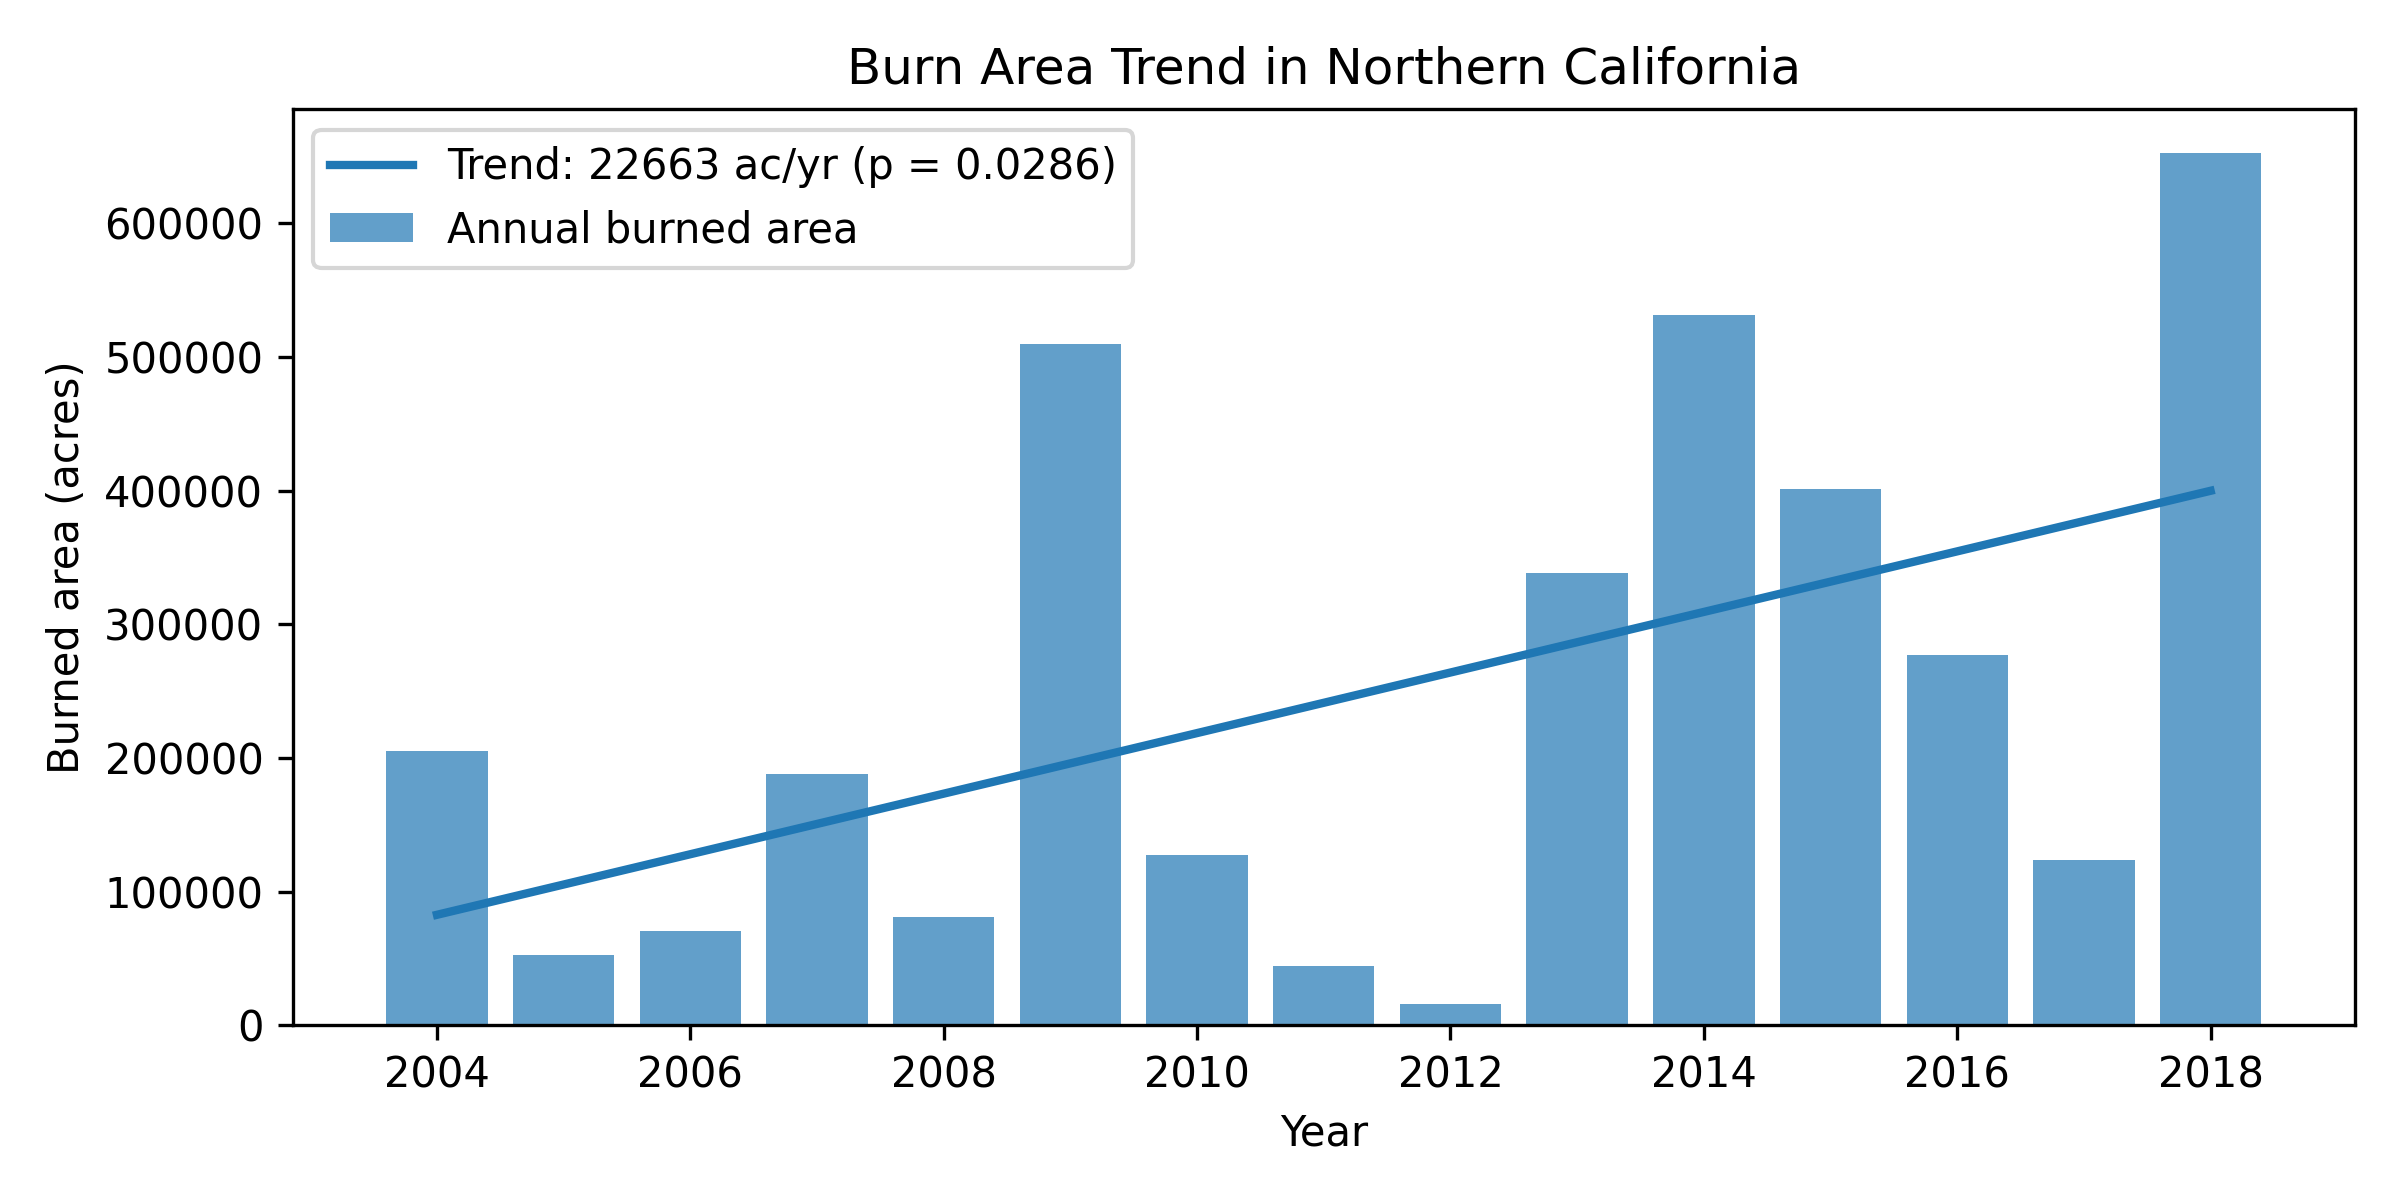
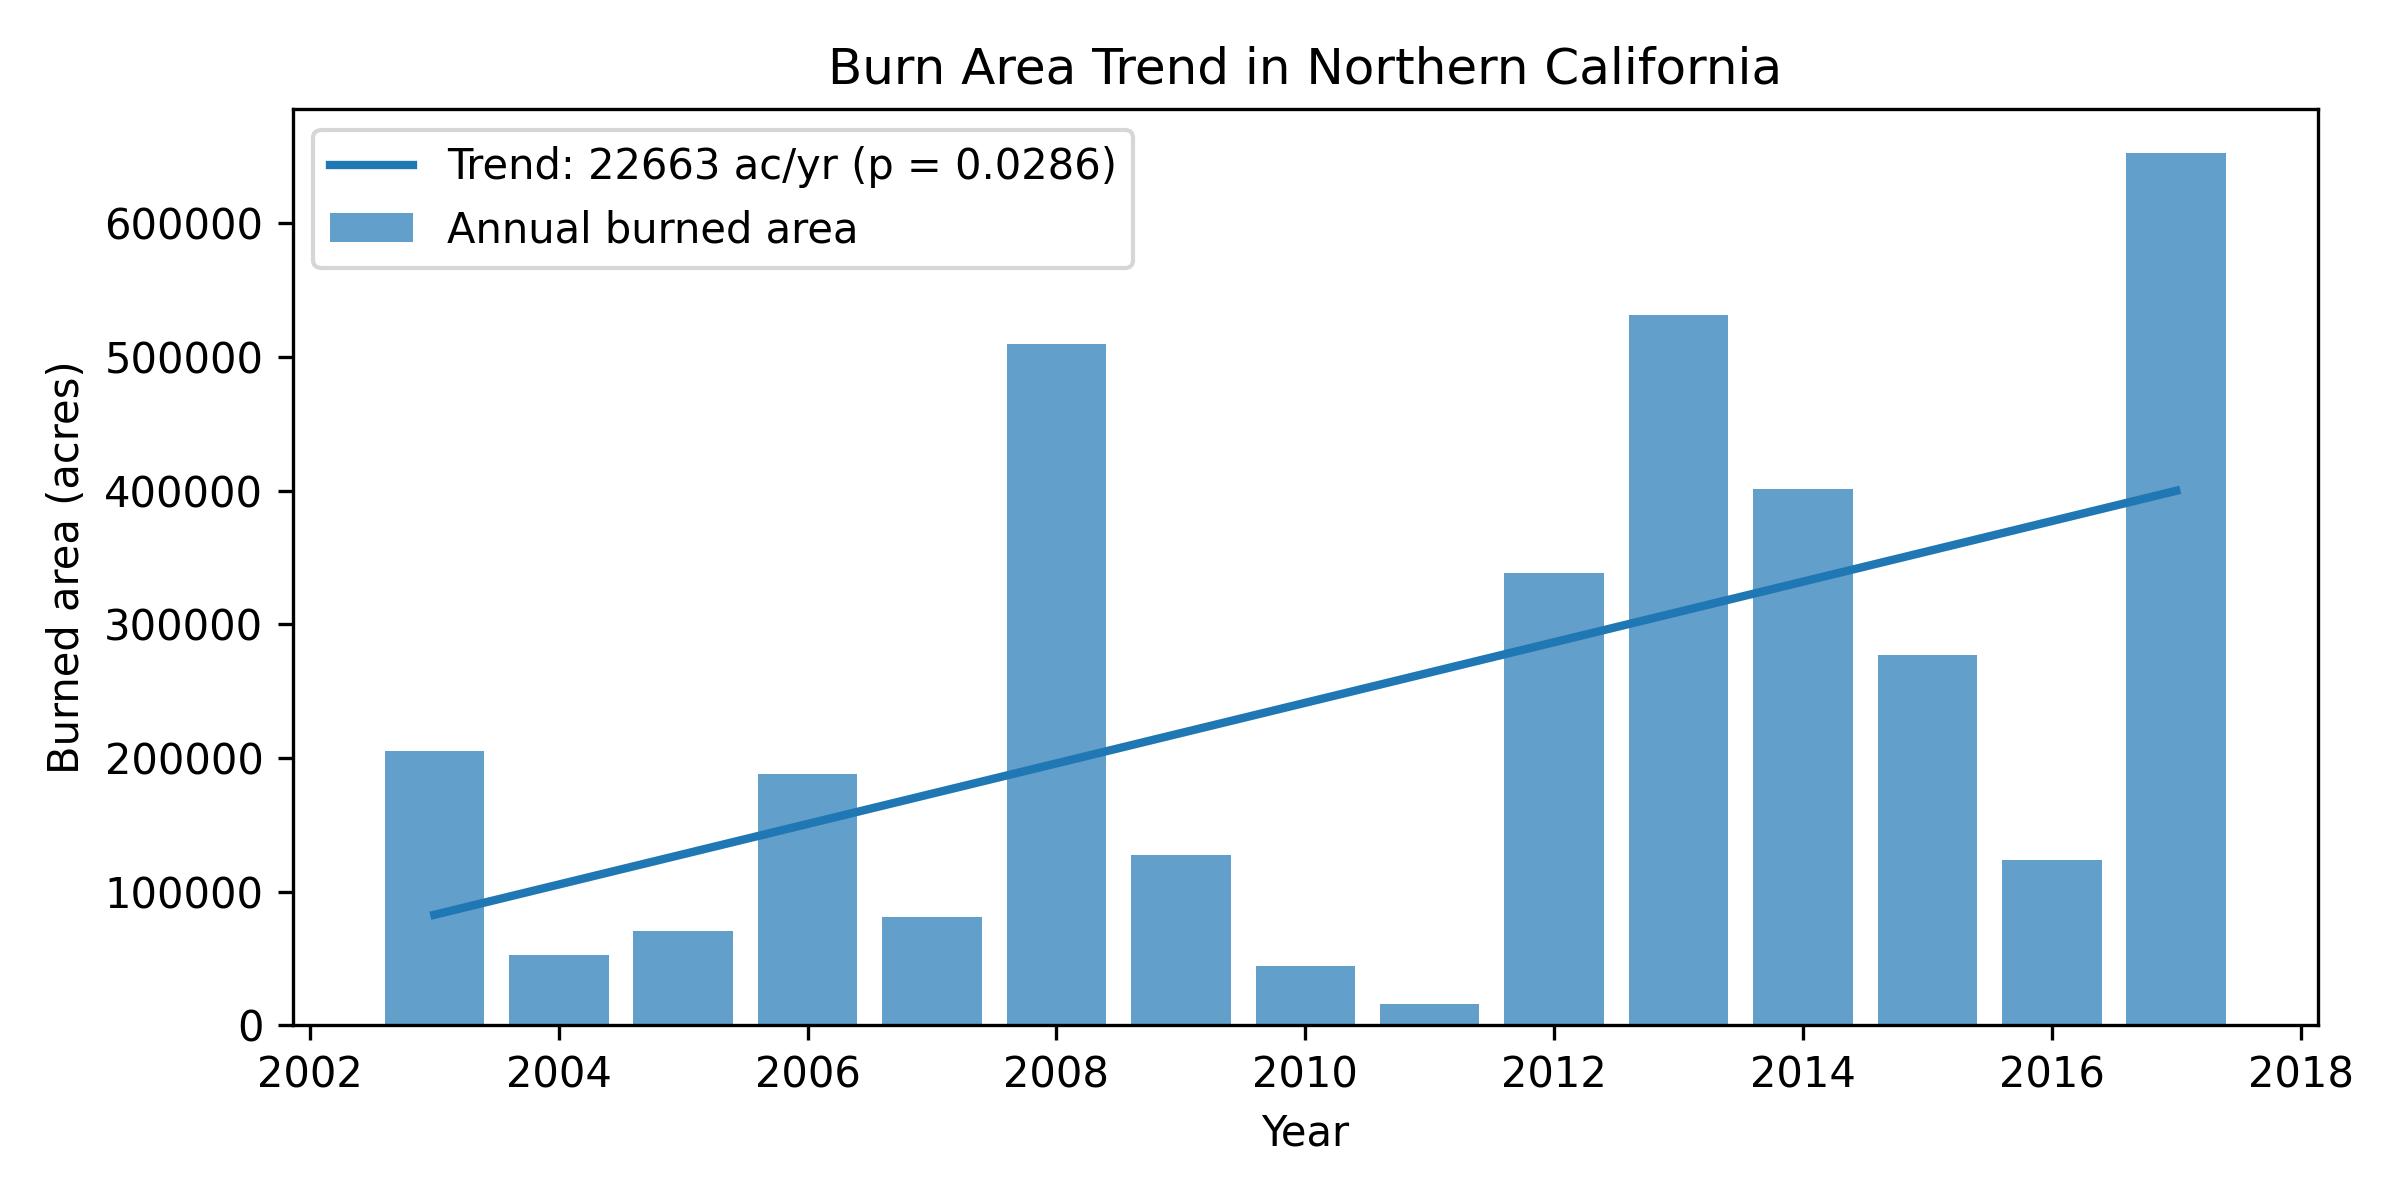
additional robustness test

diff --git a/febWorkScreen2/robustness.py b/febWorkScreen2/robustness.py
@@ -1,0 +1,80 @@
+
+import numpy as np
+import xarray as xr
+from sklearn.ensemble import RandomForestRegressor
+from sklearn.model_selection import train_test_split
+from sklearn.metrics import r2_score
+
+# Path to your dataset
+DATA_PATH = "/Users/yashnilmohanty/Desktop/final_dataset5.nc"
+
+# Load dataset
+ds = xr.open_dataset(DATA_PATH)
+
+# Build cumulative-burn categories (year, pixel)
+bc = ds["burn_cumsum"].values
+cat_2d = np.zeros_like(bc, dtype=int)
+cat_2d[bc < 0.25] = 0
+cat_2d[(bc >= 0.25) & (bc < 0.50)] = 1
+cat_2d[(bc >= 0.50) & (bc < 0.75)] = 2
+cat_2d[bc >= 0.75] = 3
+
+# Function to gather features excluding burn_fraction
+
+def gather_features_nobf(ds, target="DOD"):
+    excl = {target.lower(), 'lat', 'lon', 'latitude', 'longitude',
+            'pixel', 'year', 'burn_fraction', 'burn_cumsum'}
+    feats = {}
+    ny = ds.sizes["year"]
+    for v in ds.data_vars:
+        if v.lower() in excl:
+            continue
+        da = ds[v]
+        if v == "aorcWinterPrecipitation":
+            da = da * 86400.0
+        if set(da.dims) == {"year", "pixel"}:
+            feats[v] = da.values
+        elif set(da.dims) == {"pixel"}:
+            feats[v] = np.tile(da.values, (ny, 1))
+    return feats
+
+# Flatten features and target
+fd = gather_features_nobf(ds, "DOD")
+feat_names = sorted(fd)
+X = np.column_stack([fd[n].ravel(order="C") for n in feat_names])
+y = ds["DOD"].values.ravel(order="C")
+ok = (~np.isnan(X).any(axis=1)) & np.isfinite(y)
+Xv, Yv = X[ok], y[ok]
+
+# Flatten categories
+cat = cat_2d.ravel(order="C")[ok]
+
+# Loop over each burn category for robustness test
+for c in range(4):
+    idx = np.where(cat == c)[0]
+    if idx.size == 0:
+        print(f"Category {c}: no samples available")
+        continue
+
+    # Extract data for this category
+    X_c = Xv[idx]
+    y_c = Yv[idx]
+
+    # Split 70/30
+    X_tr, X_te, y_tr, y_te = train_test_split(
+        X_c, y_c, test_size=0.30, random_state=42
+    )
+
+    # Train model
+    rf = RandomForestRegressor(n_estimators=100, random_state=42)
+    rf.fit(X_tr, y_tr)
+
+    # Predict and compute metrics
+    y_pred = rf.predict(X_te)
+    residuals = y_pred - y_te
+    mean_bias = residuals.mean()
+    std_bias = residuals.std()
+    r2 = r2_score(y_te, y_pred)
+
+    # Print results
+    print(f"Category {c}: mean bias={mean_bias:.2f}, bias std={std_bias:.2f}, R^2={r2:.2f}")

diff --git a/febWorkScreen2/burn_trend.py b/febWorkScreen2/burn_trend.py
@@ -69,7 +69,7 @@ burn_area_ac = burn_area_m2 / 4046.8564224            # m² → acres
 # 4 · Year vector for display
 # ----------------------------------------------------------------------------
 raw_years = ds["year"].values                         # 0,1,…
-years     = raw_years + 2004                         # calendar years
+years     = raw_years + 2003                         # calendar years
 series    = pd.Series(burn_area_ac, index=years, name="burn_acres")
 
 # ----------------------------------------------------------------------------
